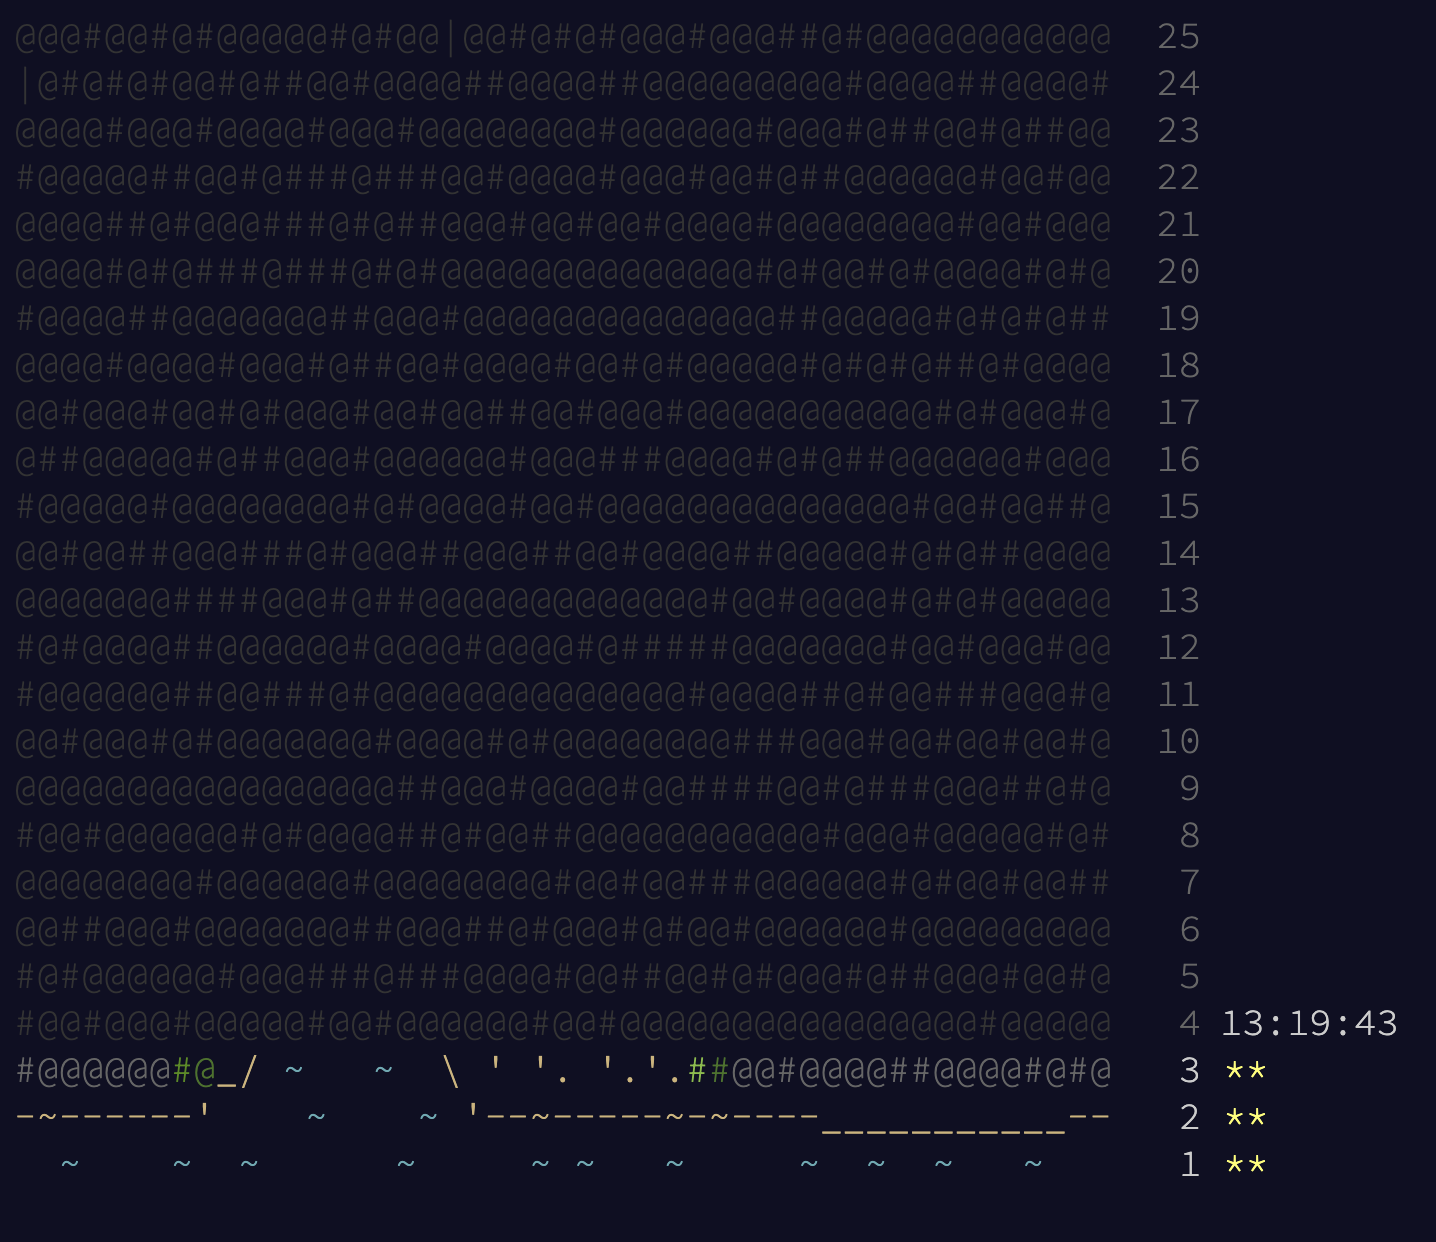
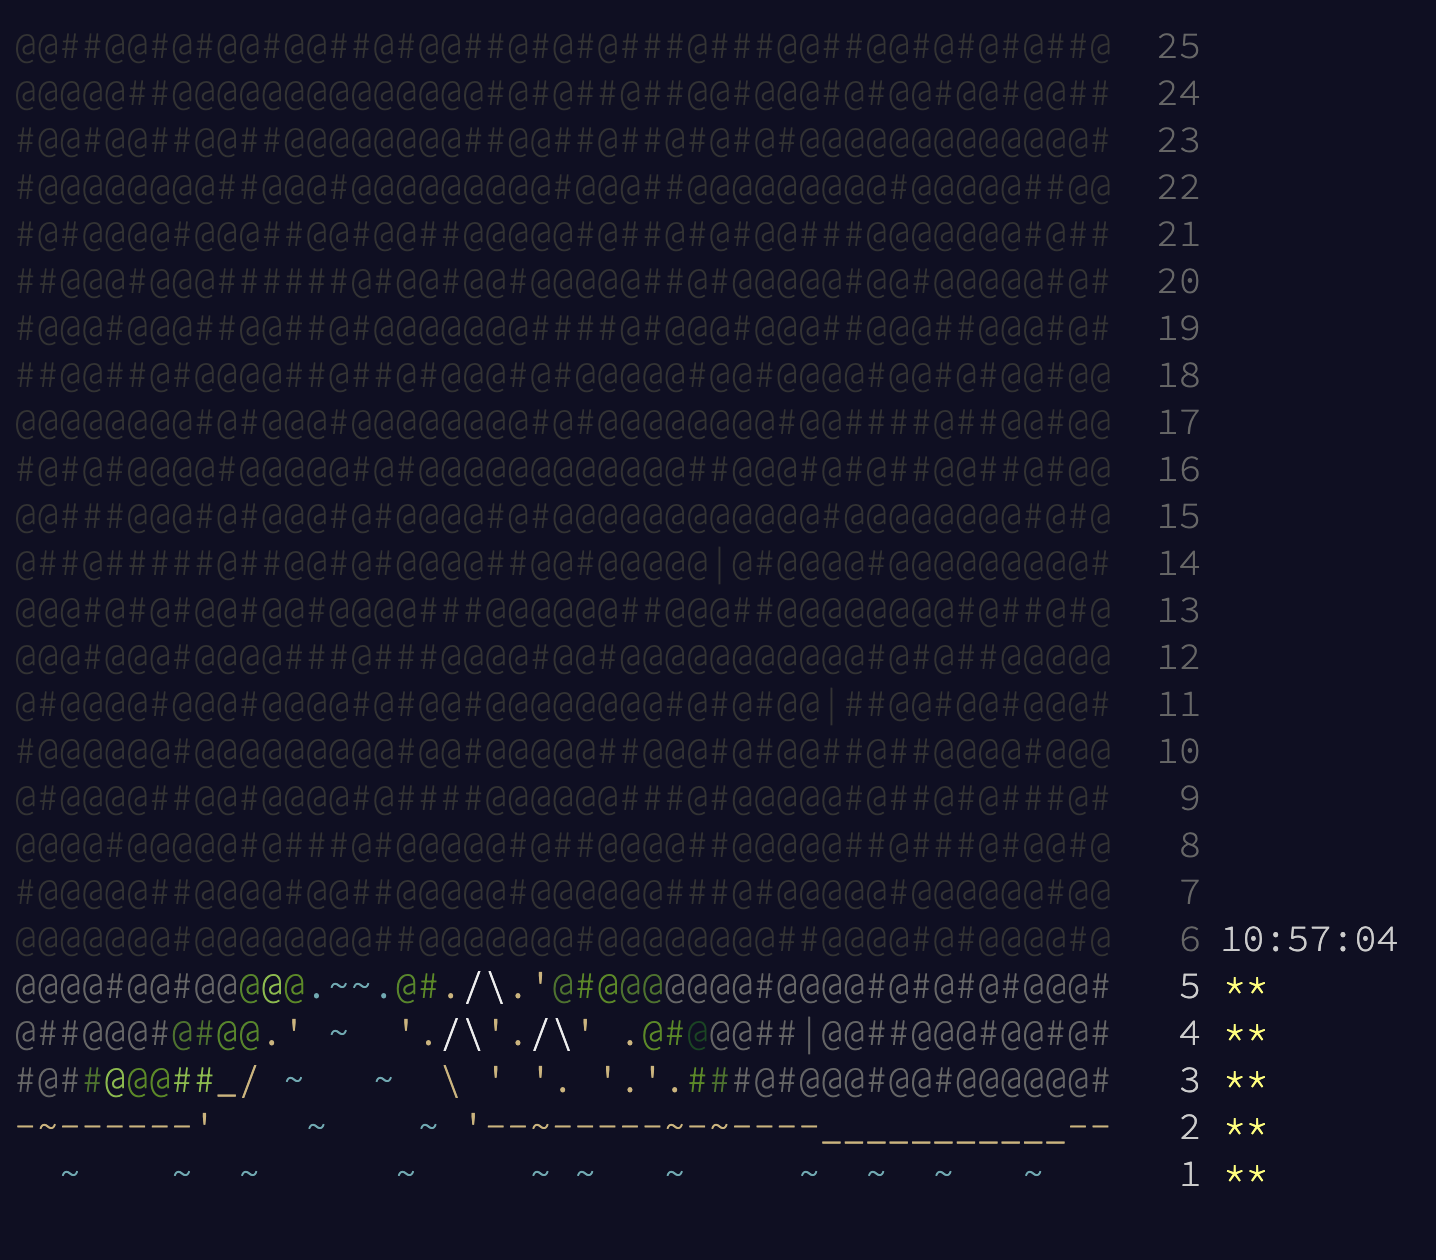
finished day5

diff --git a/Advent/2022/Day_5:_Supply_Stacks/main.py b/Advent/2022/Day_5:_Supply_Stacks/main.py
@@ -1,0 +1,65 @@
+
+my_stacks = {
+    "1": ['G', 'D', 'V', 'Z', 'J', 'S', 'B'],
+    "2": ['Z','S','M','G','V','P'],
+    "3": ['C','L','B','S','W','T','Q','F'],
+    "4": ['H','J','G','W','M','R','V','Q'],
+    "5": ['C','L','S','N','F','M','D'],
+    "6": ['R','G','C','D'],
+    "7": ['H','G','T','R','J','D','S','Q'],
+    "8": ['P','F','V'],
+    "9": ['D','R','S','T','J'],
+}
+
+
+with open("input.txt") as f:
+    data = f.read().splitlines()
+
+    for crates in data[10:]:
+        _ , qty, _, from_list, _, to_list = crates.split()
+
+        count = int(qty)
+
+        while count > 0:
+            from_index = len(my_stacks[from_list]) - count
+            move_crate = my_stacks[from_list].pop(from_index)
+            add_crate = my_stacks[to_list].append(move_crate)
+            count -= 1
+
+        # PART !
+        # while count > 0:
+        #     move_crate = my_stacks[from_list].pop()
+        #     add_crate = my_stacks[to_list].append(move_crate)
+        #     count -= 1
+
+            
+print(my_stacks)
+
+    
+
+
+result_1 = {
+    '1': ['J', 'V', 'S', 'D', 'C', 'F', 'Q', 'W'], 
+    '2': ['C'], 
+    '3': ['Z'], 
+    '4': ['V', 'D', 'R', 'V', 'T', 'G', 'T'], 
+    '5': ['H'], 
+    '6': ['T'], 
+    '7': ['J', 'Z', 'S', 'G', 'B', 'M', 'G', 'H', 'J', 'D', 'F', 'S', 'L', 'B', 'D', 'V', 'R', 'P', 'S', 'R', 'J', 'M'], 
+    '8': ['W', 'S', 'Q', 'F', 'M', 'D', 'P'], 
+    '9': ['L', 'N', 'G', 'G', 'R', 'C', 'Q', 'S']
+    }
+
+
+        
+result_2 =  {
+    '1': ['D', 'F', 'M', 'L', 'V', 'C', 'C', 'B'], 
+    '2': ['L'], 
+    '3': ['S'], 
+    '4': ['B', 'N', 'V', 'P', 'S', 'R', 'G'], 
+    '5': ['J'], 
+    '6': ['S'], 
+    '7': ['G', 'V', 'R', 'Q', 'R', 'C', 'M', 'G', 'T', 'D', 'T', 'J', 'W', 'Q', 'H', 'H', 'J', 'R', 'J', 'Z', 'D', 'D'], 
+    '8': ['F', 'W', 'V', 'Z', 'P', 'G', 'T'], 
+    '9': ['D', 'Q', 'M', 'S', 'G', 'F', 'S', 'S']
+    }

diff --git a/Advent/2022/2022.md b/Advent/2022/2022.md
@@ -3,78 +3,4 @@
 <img src="../images/2022.png">
 </div>
 
-- Day 1 "By etc, you're pretty sure they just mean more snacks."
-  - [x] Part 1
-  - [x] Part 2
-- Day 2
-  - [ ] Part 1
-  - [ ] Part 2
-- Day 3
-  - [ ] Part 1
-  - [ ] Part 2
-- Day 4
-  - [ ] Part 1
-  - [ ] Part 2
-- Day 5
-  - [ ] Part 1
-  - [ ] Part 2
-- Day 6
-  - [ ] Part 1
-  - [ ] Part 2
-- Day 7
-  - [ ] Part 1
-  - [ ] Part 2
-- Day 8
-  - [ ] Part 1
-  - [ ] Part 2
-- Day 9
-  - [ ] Part 1
-  - [ ] Part 2
-- Day 10
-  - [ ] Part 1
-  - [ ] Part 2
-- Day 11
-  - [ ] Part 1
-  - [ ] Part 2
-- Day 12
-  - [ ] Part 1
-  - [ ] Part 2
-- Day 13
-  - [ ] Part 1
-  - [ ] Part 2
-- Day 14
-  - [ ] Part 1
-  - [ ] Part 2
-- Day 15
-  - [ ] Part 1
-  - [ ] Part 2
-- Day 16
-  - [ ] Part 1
-  - [ ] Part 2
-- Day 17
-  - [ ] Part 1
-  - [ ] Part 2
-- Day 18
-  - [ ] Part 1
-  - [ ] Part 2
-- Day 19
-  - [ ] Part 1
-  - [ ] Part 2
-- Day 20
-  - [ ] Part 1
-  - [ ] Part 2
-- Day 21
-  - [ ] Part 1
-  - [ ] Part 2
-- Day 22
-  - [ ] Part 1
-  - [ ] Part 2
-- Day 23
-  - [ ] Part 1
-  - [ ] Part 2
-- Day 24
-  - [ ] Part 1
-  - [ ] Part 2
-- Day 25
-  - [ ] Part 1
-  - [ ] Part 2
+
